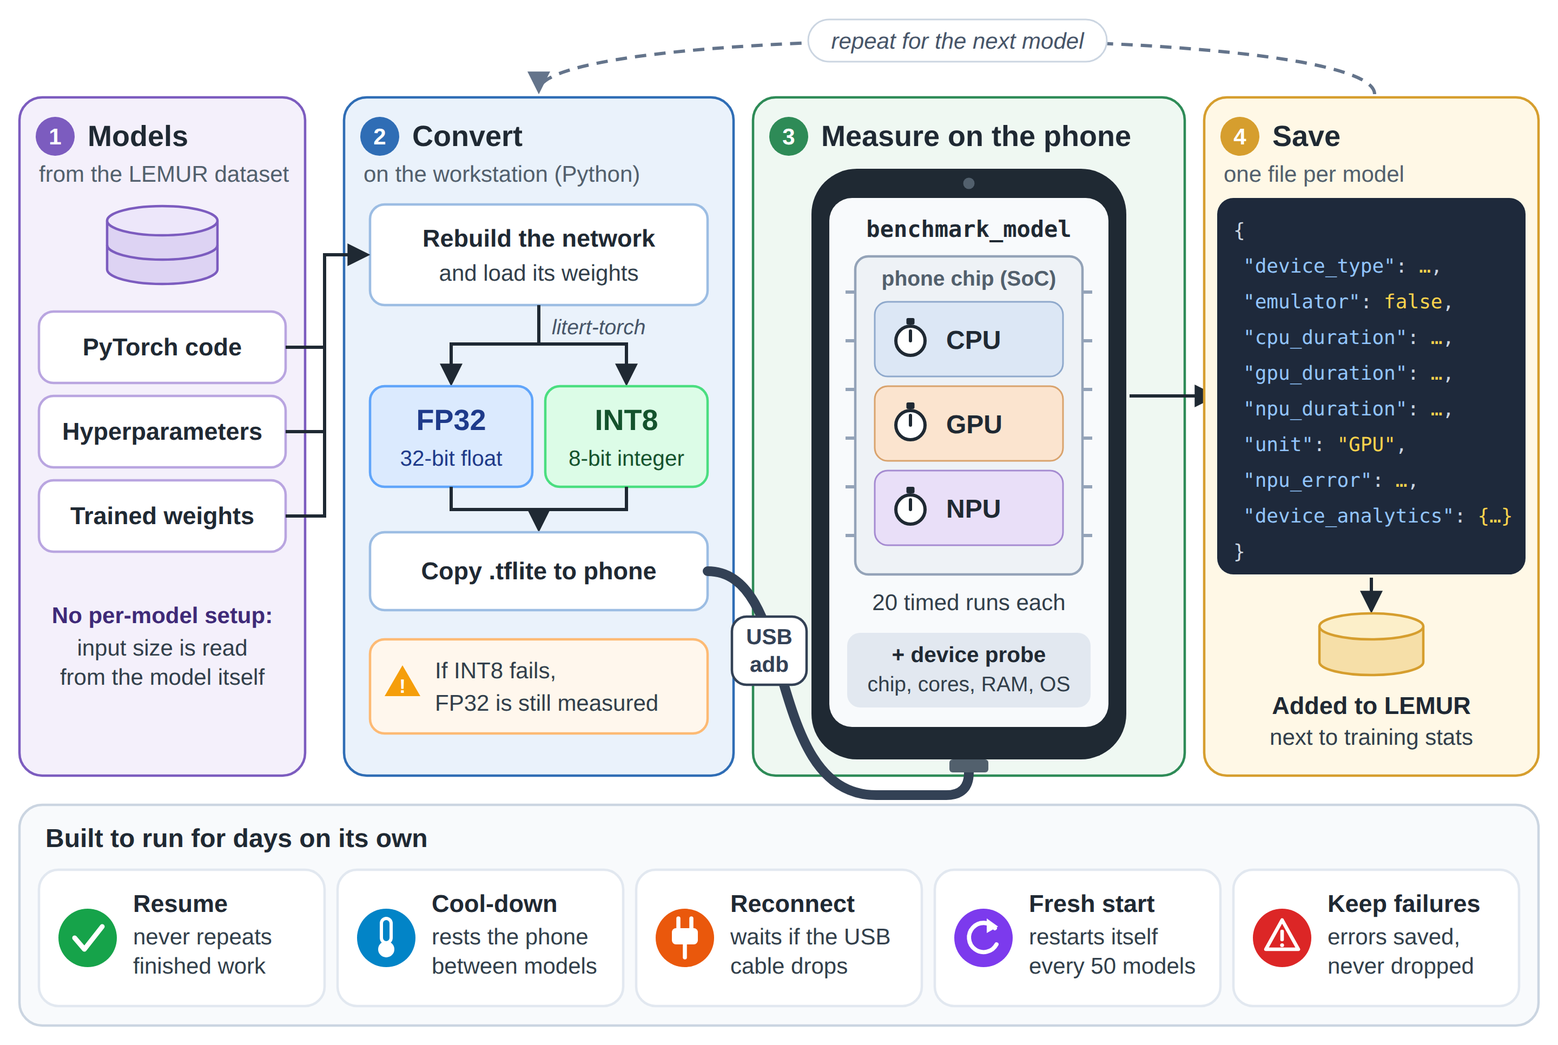
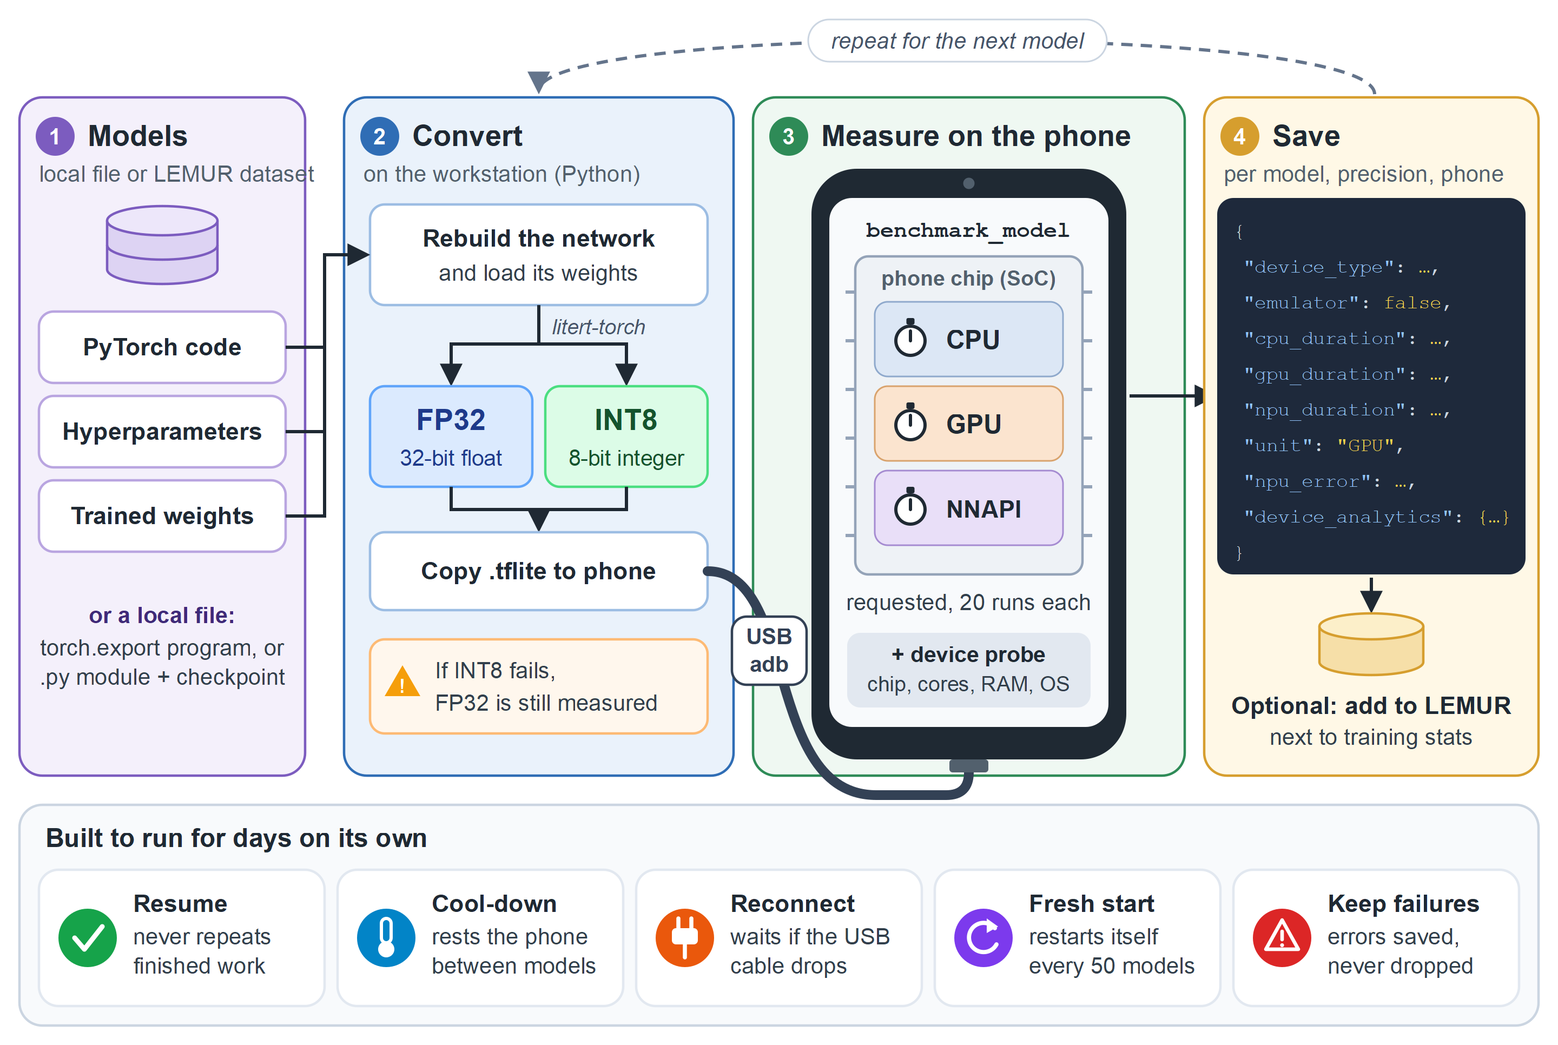
Updated according to the feedback of Prof. Timofte

diff --git a/doc/joss-paper/paper.md b/doc/joss-paper/paper.md
@@ -1,5 +1,5 @@
 ---
-title: 'NN-Lite: Automated Benchmarking of PyTorch Models on Android Devices'
+title: "NN-Lite: Automated Benchmarking of PyTorch Models on Android Devices"
 tags:
   - Python
   - Android
@@ -12,80 +12,81 @@ tags:
 authors:
   - name: Dmitry Ignatov
     orcid: 0000-0002-6339-1200
-    affiliation: '1'
+    affiliation: 1
   - name: Faraz Kayani
     orcid: 0009-0000-7769-6016
     corresponding: true
-    affiliation: '1'
+    affiliation: 1
   - name: Sarmad Kayani
     orcid: 0009-0003-4156-4291
-    affiliation: '1'
+    affiliation: 1
   - name: Radu Timofte
     orcid: 0000-0002-1478-0402
-    affiliation: '1'
+    affiliation: 1
 affiliations:
   - name: Computer Vision Lab, CAIDAS & IFI, University of Würzburg, Germany
-    ror: "00fbnyb24"
-date: 28 September 2026
+    index: 1
+    ror: 00fbnyb24
+date: 30 September 2026
 bibliography: paper.bib
 ---
 
 # Summary
 
-Several processors inside a modern smartphone can run neural networks — the central processing unit (CPU), the graphics processing unit (GPU), and with increasing frequency a neural processing unit (NPU). Manual deployment does not scale. Researchers train their models on desktop computers with PyTorch [@Paszke2019PyTorch], and the transfer of each model to a phone by hand becomes impractical once many models must be measured.
+A modern smartphone contains several processors that can run neural networks: the central processing unit (CPU), the graphics processing unit (GPU) and often a neural processing unit (NPU). Manual deployment does not scale. Researchers train their models with PyTorch [@Paszke2019PyTorch], and transferring each model to a phone by hand becomes impractical when many models must be measured.
 
-NN-Lite automates this workflow. With an Android phone connected by USB, each PyTorch model is converted to the format which the Android runtimes support, at full precision and at reduced precision, and the converted file is transferred to the phone, where the latency is measured on the CPU, GPU and NPU. Models come from the user's own exported or checkpointed files or from the LEMUR model collection [@Goodarzi2025LEMUR], installed with NN-Lite. Unattended multi-day runs are the design target: a run resumes after a disconnection or a restart, and failures are kept in the results instead of being excluded silently.
+NN-Lite automates the deployment and measurement of user-supplied PyTorch vision models that satisfy the documented input and conversion requirements. With an Android phone connected by USB, the following procedure is used for each model: conversion to LiteRT at full (FP32) and at reduced (INT8) precision is attempted and can fail. The converted file is then copied to the phone. On the phone, latency is measured for the supported configurations of CPU, GPU-delegate and Android Neural Networks API (NNAPI) execution. These configurations are requested explicitly and recorded with their outcomes. The labels CPU, GPU-delegate and NNAPI do not mean that every operator ran on a particular physical accelerator, but simply that the labelled configuration was requested. Models come from the user's own files or from the LEMUR model collection [@Goodarzi2025LEMUR] installed with NN-Lite. A multi-day unattended run resumes after a disconnection or a restart. Failures are kept in the results and are not excluded silently. We describe a tested and reusable way to conduct and interpret such measurement campaigns, with explicit limits on what the measurements establish.
 
 # Statement of need
 
-Research on efficient deep learning — hardware aware architecture search, quantization, latency prediction, model compression — requires measurements across many architectures and real devices, while an emulator does not reproduce the vendor specific GPU and NPU software stack of a phone. Some operators are not supported [@Ignatov2019AIBenchmark; @Almeida2021SmartAtWhatCost]. On a real device the same model can succeed on one accelerator and be rejected by another.
+Research on efficient deep learning (hardware aware architecture search, quantization, latency prediction, model compression) requires measurements across many architectures and real devices, because an emulator does not reproduce the vendor specific GPU and NPU software stack of a phone. Some operators are not supported [@Ignatov2019AIBenchmark; @Almeida2021SmartAtWhatCost]. On a real device, the same model can succeed with one accelerator and be rejected by another.
 
-NN-Lite serves researchers who train their models in PyTorch and need reproducible latency and feasibility measurements which are specific to a device and to an accelerator, for a single architecture as well as for a large model collection. An earlier version of this codebase was used for a measurement campaign. Its latency dataset is reported in @Din2026NNLite. We describe here the consolidated software release, version 1.0.0, and five changes which transformed the campaign code into a reusable tool, with effect on its measurements and on its accessibility.
+NN-Lite, which evolved from the pipeline that produced the latency dataset of @Din2026NNLite, serves researchers who need reproducible latency and feasibility measurements, specific to a device and to an accelerator configuration. The present paper documents the maintained release 1.0.1 with its interfaces, design choices and tests, as well as the changes with respect to the campaign pipeline. A full list of the changes is contained in the changelog. Five of them matter most.
 
-**Models from arbitrary sources.** The pipeline operated before only on the model collection it was written for. Files are accepted now too. A program exported with `torch.export` is self-contained and retains its input shape, while a Python module with a checkpoint which contains the weights, or the saved model, is accepted as well.
+**User-supplied vision models.** The campaign pipeline operated only on the collection it was written for. A file is now also accepted: a program exported with `torch.export`, which retains its input shape, or a Python module with a checkpoint or the saved model. Each model must have a single four-dimensional (NCHW) image input. Because of the calibration images needed for INT8 export and the default normalization applied if the user supplies no transform, the correct preprocessing remains the user's responsibility.
 
-**Installation without manual setup.** The original campaign depended on nightly builds which have since been withdrawn from the Python Package Index, so its reproduction was prevented. Version 1.0.0 depends only on released versions of its converter, its runtime and its quantizer, and is installed from the Python Package Index, under the name `nn-lit`, through a single console entry point. Linux and Apple Silicon are supported. The model collection is installed as a dependency and retrieved at the first use.
+**Packaged installation.** The dependence on nightly builds that were later withdrawn from the Python Package Index made the campaign impossible to reproduce. Release 1.0.1 depends only on released versions of its converter, runtime and quantizer, is installed under the name `nn-lit`, and its console command is `nn-lite-bench`. Installing the package does not install the Android Debug Bridge (ADB) or authorize a phone. The user does both. Linux and Apple Silicon are supported.
 
-**Measurements attributable to the intended model.** Models are built now at their training resolution instead of at a fixed size, so an architecture such as VisionTransformer, which expects inputs of 299×299, loads its weights and does not fail. Each transfer to the phone is verified. A failed copy marks the model as failed, so no stale file is timed.
+**Measurements attributable to the intended model.** Models are now built at their training resolution, not at a fixed size. At this resolution, the VisionTransformer configuration of the collection loads its weights. The explanation is this: the checkpoint of the configuration (not the model family) expects 299×299 inputs. Verifying each transfer to the phone keeps a stale file from being timed. CPU timing runs with XNNPACK disabled (`--use_xnnpack=false`). We treat the disabling of XNNPACK as a change to the protocol of the campaign.
 
-**Quantization calibrated on representative data.** Integer export used before a representative set of synthetic random noise. Such a set misrepresents the activation statistics and can reduce the accuracy: AirNet, for example, reached 79.1% top-1 accuracy on CIFAR-10 compared to 86.6%. The calibration uses real images now. These images are processed with the input transformation of the model itself.
+**Quantization calibrated on representative data.** Integer export in the campaign pipeline used a set of synthetic random noise. Such a set misrepresents the activation statistics and can reduce the accuracy. The calibration now uses real images, processed with the input transformation of the model itself.
 
-**A tested programming interface.** Output parsing, error extraction and record construction are separated from the device control into documented importable modules, which need neither the deep learning frameworks nor the Android Debug Bridge. Each device keeps its own progress ledger. Every device command carries an explicit serial number, so one process per phone runs at the same time on one workstation and writes into a shared results folder.
+**A tested programming interface.** Output parsing, error extraction and record construction are separated from the device control into documented importable modules. These modules need neither the deep learning frameworks nor ADB. An explicit serial number in every device command allows one process per phone to run at the same time. But because progress and result files are keyed by the phone model, two physical phones of the same model share them, and a second concurrent run for that model is rejected.
 
 # State of the field
 
-*AI Benchmark* [@Ignatov2018AIBenchmark; @Ignatov2019AIBenchmark] and *MLPerf Mobile* [@Reddi2022MLPerfMobile] are established mobile benchmarks, but they execute fixed curated sets of reference models in order to compare *devices*, and arbitrary research architectures at large scale are not ingested by them. Measured latency is used as ground truth by latency predictors such as *nn-Meter* [@Zhang2021nnMeter] and *BRP-NAS* [@Dudziak2020BRPNAS], by hardware aware search methods such as *MnasNet* [@Tan2019MnasNet] and *ProxylessNAS* [@Cai2019ProxylessNAS], and by benchmarks such as *HW-NAS-Bench* [@Li2021HWNASBench], which do not provide the infrastructure to obtain it. The closest work in spirit is @Zhang2022MobileLibraries. 171 models across mobile deep learning libraries are benchmarked there, while the study is fixed and is not a tool for the models and the devices of the researchers themselves. Compiler stacks such as *TVM* [@Chen2018TVM] tune individual models, and *Qualcomm AI Hub* [@QualcommAIHub] offers hosted profiling as a vendor specific service. The `benchmark_model` utility of LiteRT [@TFLiteBenchmarkTool] measures one already converted model per invocation, but no conversion, bookkeeping, fault tolerance or standardized result schema is provided by it.
+*AI Benchmark* [@Ignatov2018AIBenchmark; @Ignatov2019AIBenchmark] and *MLPerf Mobile* [@Reddi2022MLPerfMobile] execute fixed curated sets of reference models in order to compare *devices*. Measured latency serves as ground truth for latency predictors such as *nn-Meter* [@Zhang2021nnMeter] and *BRP-NAS* [@Dudziak2020BRPNAS], for search methods such as *MnasNet* [@Tan2019MnasNet] and *ProxylessNAS* [@Cai2019ProxylessNAS], and for benchmarks such as *HW-NAS-Bench* [@Li2021HWNASBench]. *nn-Meter* includes backend preparation for Android profiling, while the other works do not provide the measurement infrastructure. The closest work in spirit is @Zhang2022MobileLibraries, where 171 models across mobile deep learning libraries are benchmarked. On the other hand, this work is fixed and is not a tool for the researchers' own models and devices. Compiler stacks like *TVM* [@Chen2018TVM] tune individual models. *Qualcomm AI Hub* [@QualcommAIHub] offers hosted profiling of a vendor. Compared to *ExecuTorch* [@ExecuTorch], which provides PyTorch edge deployment workflows, NN-Lite orchestrates LiteRT campaigns over many models and devices. The `benchmark_model` utility of LiteRT [@TFLiteBenchmarkTool] measures one converted model per invocation and supports structured profiling output, but it does not provide conversion, failure bookkeeping or one record for many models and devices.
 
-NN-Lite uses these components instead of replacing them. Conversion is done with LiteRT Torch [@LiteRTTorch], while the models are executed by the LiteRT runtime [@Abadi2016TensorFlow] and by the official `benchmark_model` binary, and the device is controlled by the Android Debug Bridge [@AndroidADB]. The Android Neural Networks API (NNAPI) [@AndroidNNAPI] requests NPU execution. Its contribution consists in the orchestration layer, which integrates these components into a reproducible and fault tolerant workflow from PyTorch models to physical device measurements and structured records.
+NN-Lite uses existing components and does not replace them: LiteRT Torch [@LiteRTTorch] for conversion, the LiteRT runtime [@Abadi2016TensorFlow; @LiteRTDocs] with the official `benchmark_model` binary for execution, and ADB [@AndroidADB] for device control. NNAPI [@AndroidNNAPI] is used to request accelerator execution. The contribution of NN-Lite consists in the orchestration layer, which integrates the components into a reproducible and fault tolerant workflow from PyTorch models to structured records.
 
 # Software design
 
-![How NN-Lite benchmarks one model on a physical phone: (1) the model is read from a local file or from the LEMUR dataset [@Goodarzi2025LEMUR]; (2) the network is rebuilt on the workstation and converted to FP32 and INT8 LiteRT files; (3) the files are copied over USB and timed with `benchmark_model` on the CPU, GPU and NPU paths; and (4) one JSON record is written. The safeguards at the bottom make the unattended multi-day runs possible.\label{fig:architecture}](figures/architecture.png){ width=100% }
+![How NN-Lite benchmarks one model on a physical phone: (1) the model is read from a local file or from the LEMUR dataset [@Goodarzi2025LEMUR]; (2) the network is rebuilt on the workstation and converted to FP32 and INT8 LiteRT files; (3) the files are copied over USB and timed with benchmark_model in the CPU, GPU-delegate and NNAPI configurations, which are requested and not verified on the hardware; and (4) one file per model, precision and device is written, with an optional contribution to LEMUR. The safeguards at the bottom allow the unattended multi-day runs.\label{fig:architecture}](figures/architecture.png){ width=100% }
 
-**Host-driven execution using standard Android tooling.** Google's prebuilt `benchmark_model` binary is transferred once to the phone by NN-Lite, and it is invoked per model and per path, so root access and model specific signed applications are avoided. End to end application latency is not reported.
+**Host-driven execution using standard Android tooling.** Transferring Google's prebuilt `benchmark_model` binary once to the phone and invoking it per model and configuration avoids root access and signed applications. End to end application latency is not reported.
 
-**Models are rebuilt rather than assumed to be portable.** A model taken from the collection consists of PyTorch code, hyperparameters and a checkpoint. NN-Lite reinstantiates the network and restores its weights. A model supplied as a file is self-describing when it was exported with `torch.export`, and otherwise it is reconstructed from its own module, so naming collisions among models saved under a shared class name are avoided. Either way an architecture enters the pipeline, and no configuration per model is needed.
+**Models are rebuilt rather than assumed to be portable.** A model taken from the collection consists of PyTorch code, hyperparameters and a checkpoint. NN-Lite reinstantiates the network and restores its weights. A model from a file is self-describing in case of `torch.export`. For every other model from a file, reconstruction from its own module avoids naming collisions under a shared class name.
 
-**Every execution path is measured, and failures are data.** Each model is exported in FP32. INT8 export with full integer post training quantization [@Jacob2018Quantization] follows when it is supported. Every path is selected explicitly instead of being delegated to the default of the runtime, so every latency is attributable to a known backend. The FP32 model is measured anyway if the quantization fails on an operator which is not supported. When a path fails, its diagnostic output is recorded in the result and in the per device log, while a model whose paths all fail is retained and marked invalid instead of being dropped.
+**Every configuration is measured, and failures are data.** Each model is exported in FP32. INT8 export with full integer post training quantization [@Jacob2018Quantization] follows for every model that supports it. The quantization can fail on an operator which is not supported. Still, the FP32 model is measured. Requesting every configuration explicitly, and not delegating it to the default of the runtime, means that each latency is labelled with the requested backend. Recording the diagnostic output of a failed configuration in the result and in the per device log, and retaining a model whose configurations all fail and marking it invalid, makes failures available for explicit analysis. Not every failure establishes an operator support gap.
 
-**Fault-tolerant, resumable runs.** NN-Lite pauses between the models, so that cooling is possible. The process is restarted from time to time in order to release the memory which the conversion toolchain holds. NN-Lite waits when a device is disconnected.
+**Fault-tolerant, resumable runs.** NN-Lite pauses between the models for cooling, restarts its process from time to time to release the memory held by the conversion toolchain, and waits for a disconnected device.
 
-**One schema for every model source.** Results are written as one file per model, quantization setting and device, in the training statistics layout of the collection. A run made from the installed package can be copied into a checkout and contributed. Each record contains the latency distribution over repeated runs for every path, the fastest path, and the input shape, memory state and device telemetry needed for interpretation, and both sources are compared in this way. The analysis code stays unmodified.
+**One schema for every model source.** Results are written as one file per model, quantization setting and device, in the training statistics layout of the collection. Contributing a run made from the installed package to LEMUR is optional. Each record contains the mean, minimum, maximum and standard deviation of the latency over repeated executions for every configuration, the fastest configuration (the one with the lowest valid mean latency), and the input shape, memory state and device telemetry needed for interpretation. While the requested runs count (20 by default) is stored as `iterations`, the effective count is governed by the duration limits of the upstream tool and can differ. The analysis code stays unmodified.
 
-Two limitations have to be mentioned. First, NN-Lite reports wall clock latency under a fixed protocol and does not isolate the state of the frequency governor or the energy per operator. Second, the NPU execution is mediated by the NNAPI, whose behaviour depends on the installed runtime and on the drivers: NNAPI can fall back to CPU execution when the compilation or the execution on an accelerator fails, and the API was deprecated in Android 15 [@AndroidNNAPI]. The requested path and the runtime output are recorded by NN-Lite, which cannot guarantee that all the operations ran on the intended accelerator.
+Two limitations have to be mentioned. NN-Lite reports wall clock latency and does not isolate the frequency governor state or the energy per operator. The second limitation is that NPU execution is mediated by NNAPI, whose behaviour depends on the installed runtime and drivers: NNAPI can fall back to CPU execution when compilation or execution on an accelerator fails, and the API was deprecated in Android 15 [@AndroidNNAPI]. Because NN-Lite cannot guarantee that all operations ran on the intended accelerator, the label NPU in the schema denotes the NNAPI configuration. The command line of each configuration is built in a single function, and this function localizes most of the change for a replacement backend.
 
 # Research impact statement
 
-NN-Lite is the on device measurement component of the LEMUR ecosystem [@Goodarzi2025LEMUR]. Its emulator execution path provided the inference latency measurements for more than 7,500 models in LEMUR 2 [@Uzun2026LEMUR2]. The physical device path produced the delegate resolved latency dataset reported in @Din2026NNLite, which covers 586 architectures across five commodity phones from three chip vendors. These records are publicly available. They have been used as well to fit device specific latency models by symbolic regression [@Dhanani2026Symbolic] and to show that FLOPs predict latency poorly unless the backend is taken into account [@Din2026BMVC].
+NN-Lite is the on device measurement component of the LEMUR ecosystem [@Goodarzi2025LEMUR]. Inference latency measurements for more than 7,500 models in LEMUR 2 [@Uzun2026LEMUR2] were provided by the emulator execution path of NN-Lite. The physical device path produced the delegate resolved latency dataset reported in @Din2026NNLite, which covers 586 architectures across five commodity phones from three chip vendors. All records of this dataset are publicly available. They have also been used to fit device specific latency models by symbolic regression [@Dhanani2026Symbolic] and to show that FLOPs predict latency poorly if the backend is not taken into account [@Din2026BMVC].
 
-Release 1.0.0 is on the Python Package Index as `nn-lit`. Unit tests cover the release and run in continuous integration on three Python versions, while the documentation addresses external users. We verified both model sources end to end on a phone. The verification included a model outside the collection (torchvision MobileNetV3), so other groups can benchmark their own models.
+Release 1.0.1 is on the Python Package Index as `nn-lit`, with the source in the project repository. Unit tests cover the release and run in continuous integration on three Python versions. We verified both model sources end to end on a phone, including a model outside the collection (torchvision MobileNetV3).
 
 # AI usage disclosure
 
-We designed and implemented the NN-Lite software. No generative AI assistance was used for it, while Claude Opus 5.5 (Anthropic) assisted with drafting the manuscript, with checking `paper.bib` and with creating \autoref{fig:architecture}. All the content produced with AI assistance was reviewed, edited and validated by the authors. We made all the final scientific and software decisions.
+We designed and implemented the NN-Lite software without generative AI assistance, while Claude Opus 5.5 (Anthropic) assisted with drafting the manuscript, checking `paper.bib` and creating \autoref{fig:architecture}. All the content produced with AI assistance was reviewed, edited and validated by the authors, who made all the final scientific and software decisions.
 
 # Acknowledgements
 
-This work was partially supported by the Alexander von Humboldt Foundation. We thank Saif U Din and Muhammad Ahsan Hussain, whose work on the measurement campaign reported in @Din2026NNLite shaped the requirements of this release, and we thank the contributors to the LEMUR dataset.
+This work was partially supported by the Alexander von Humboldt Foundation. We thank Saif U Din and Muhammad Ahsan Hussain for the measurement campaign of @Din2026NNLite, and the contributors to the LEMUR dataset.
 
 # References
